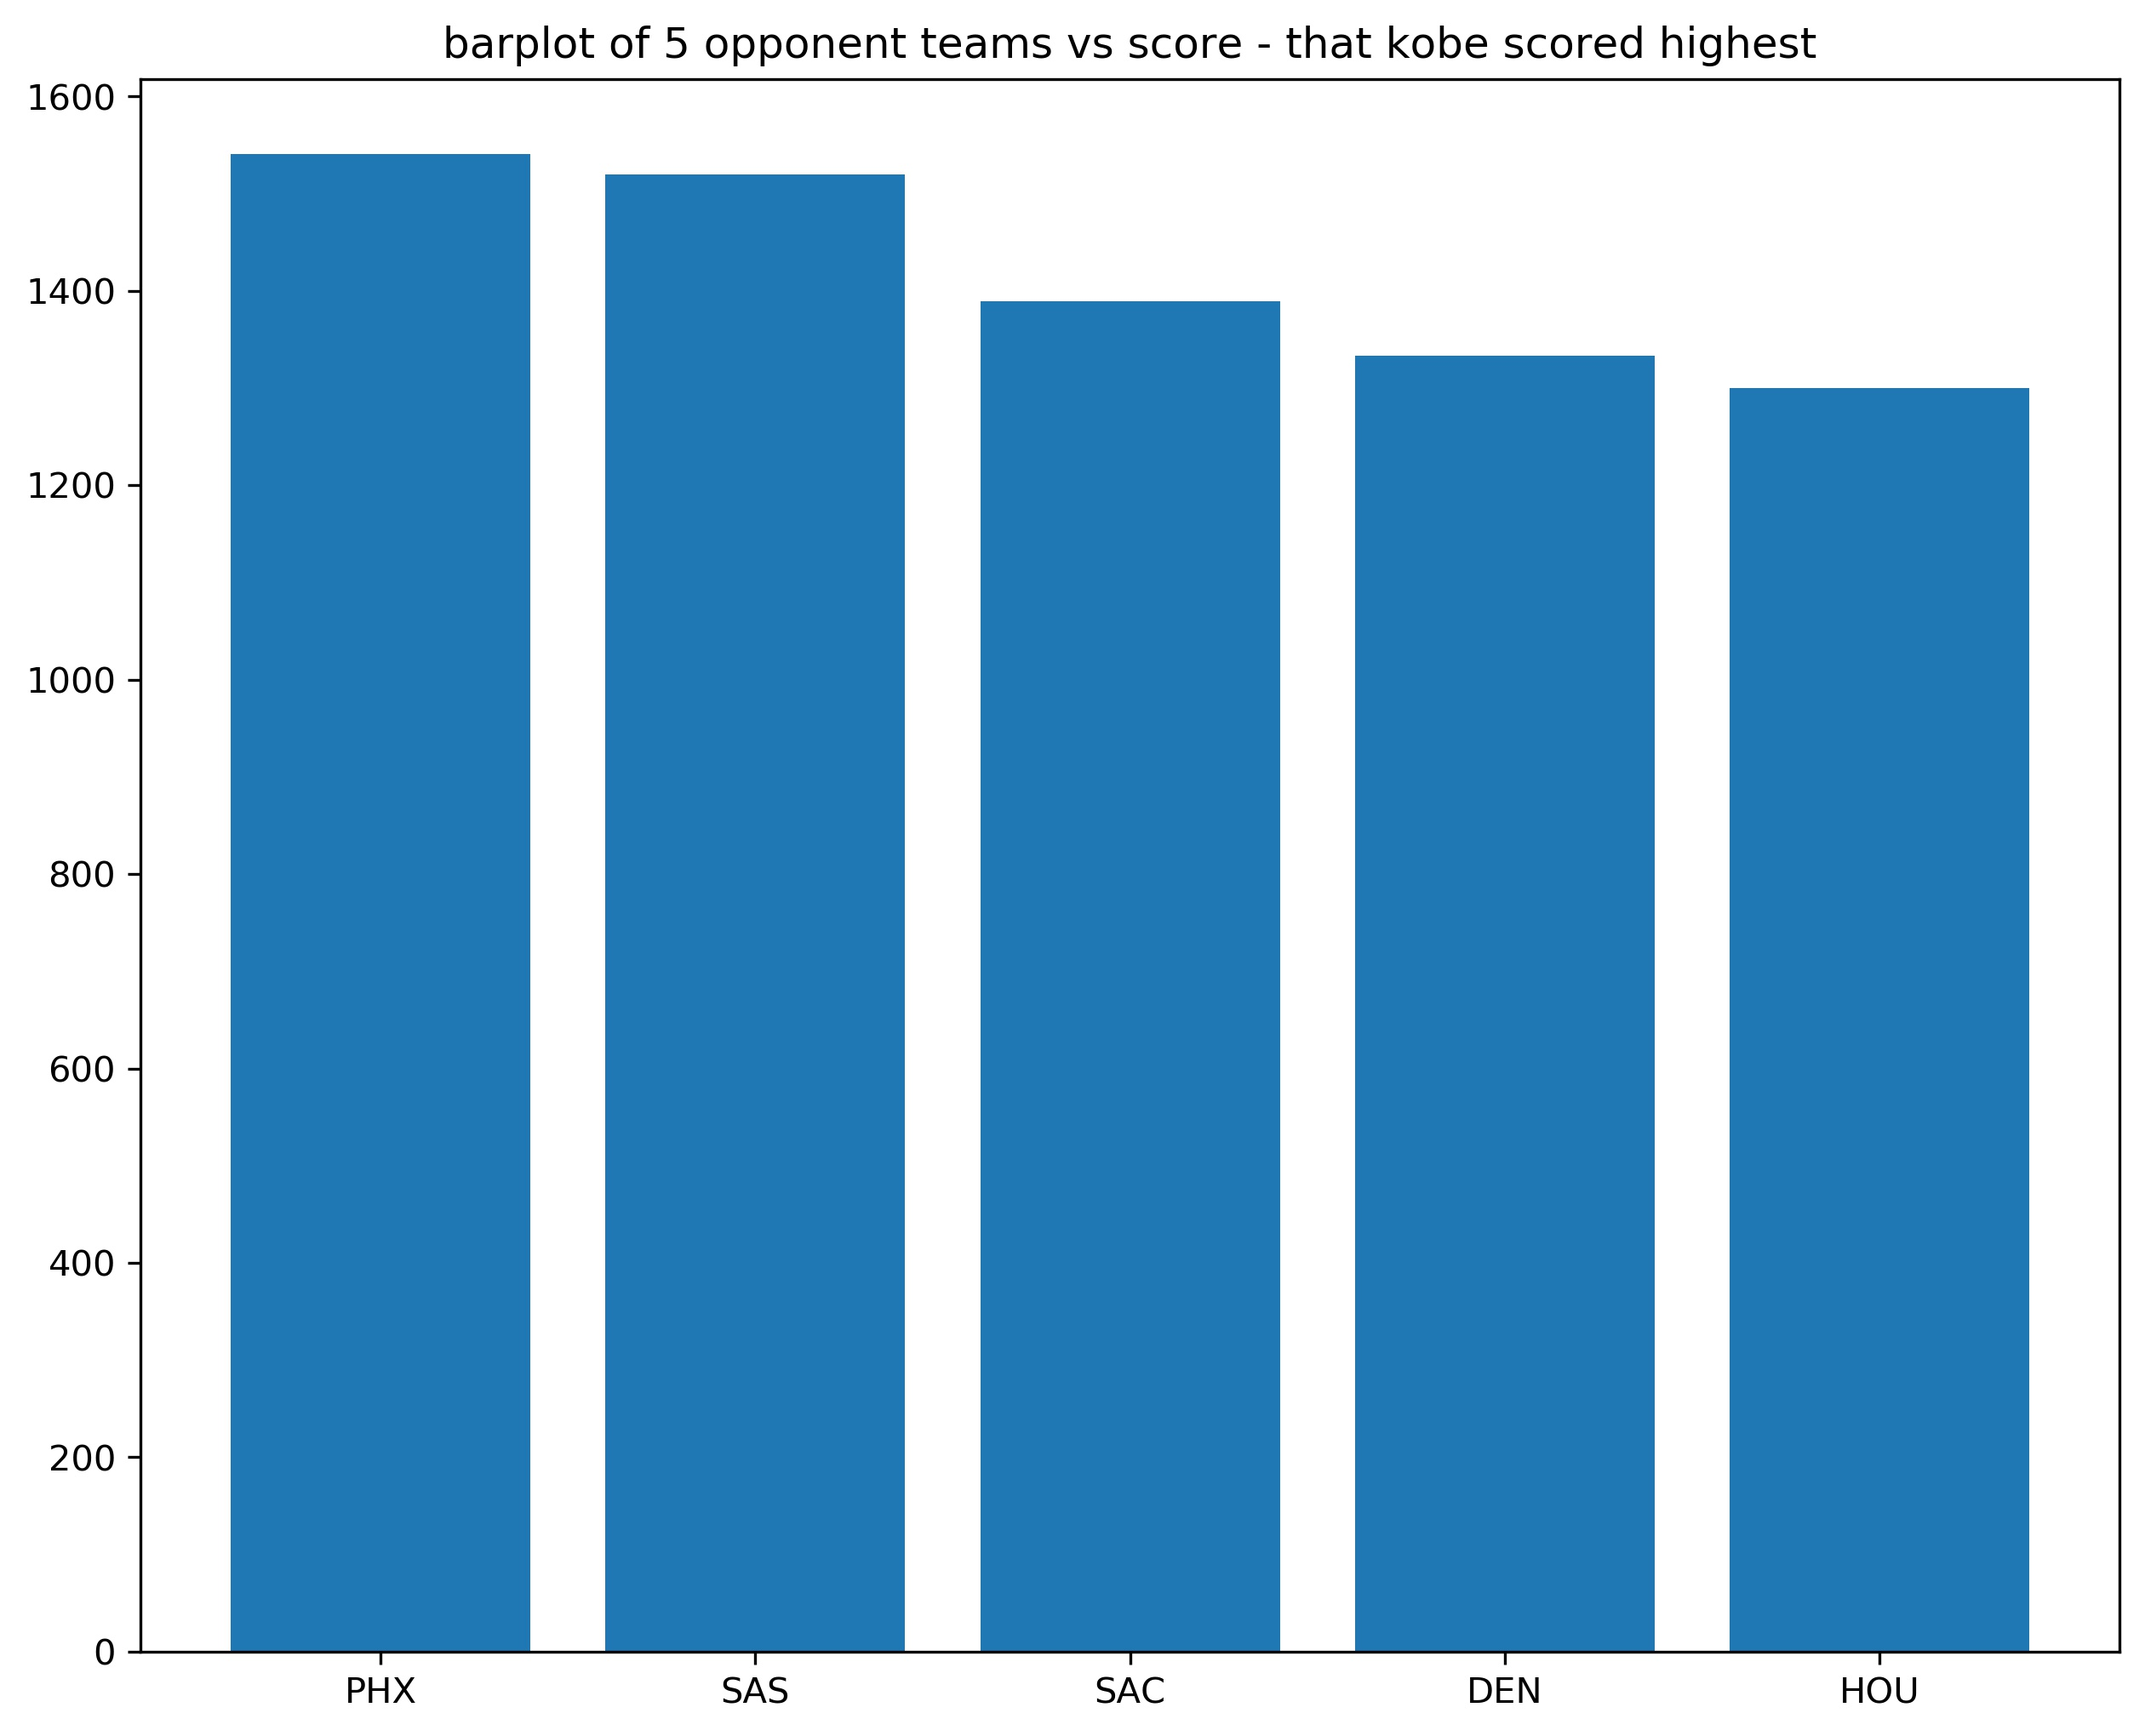
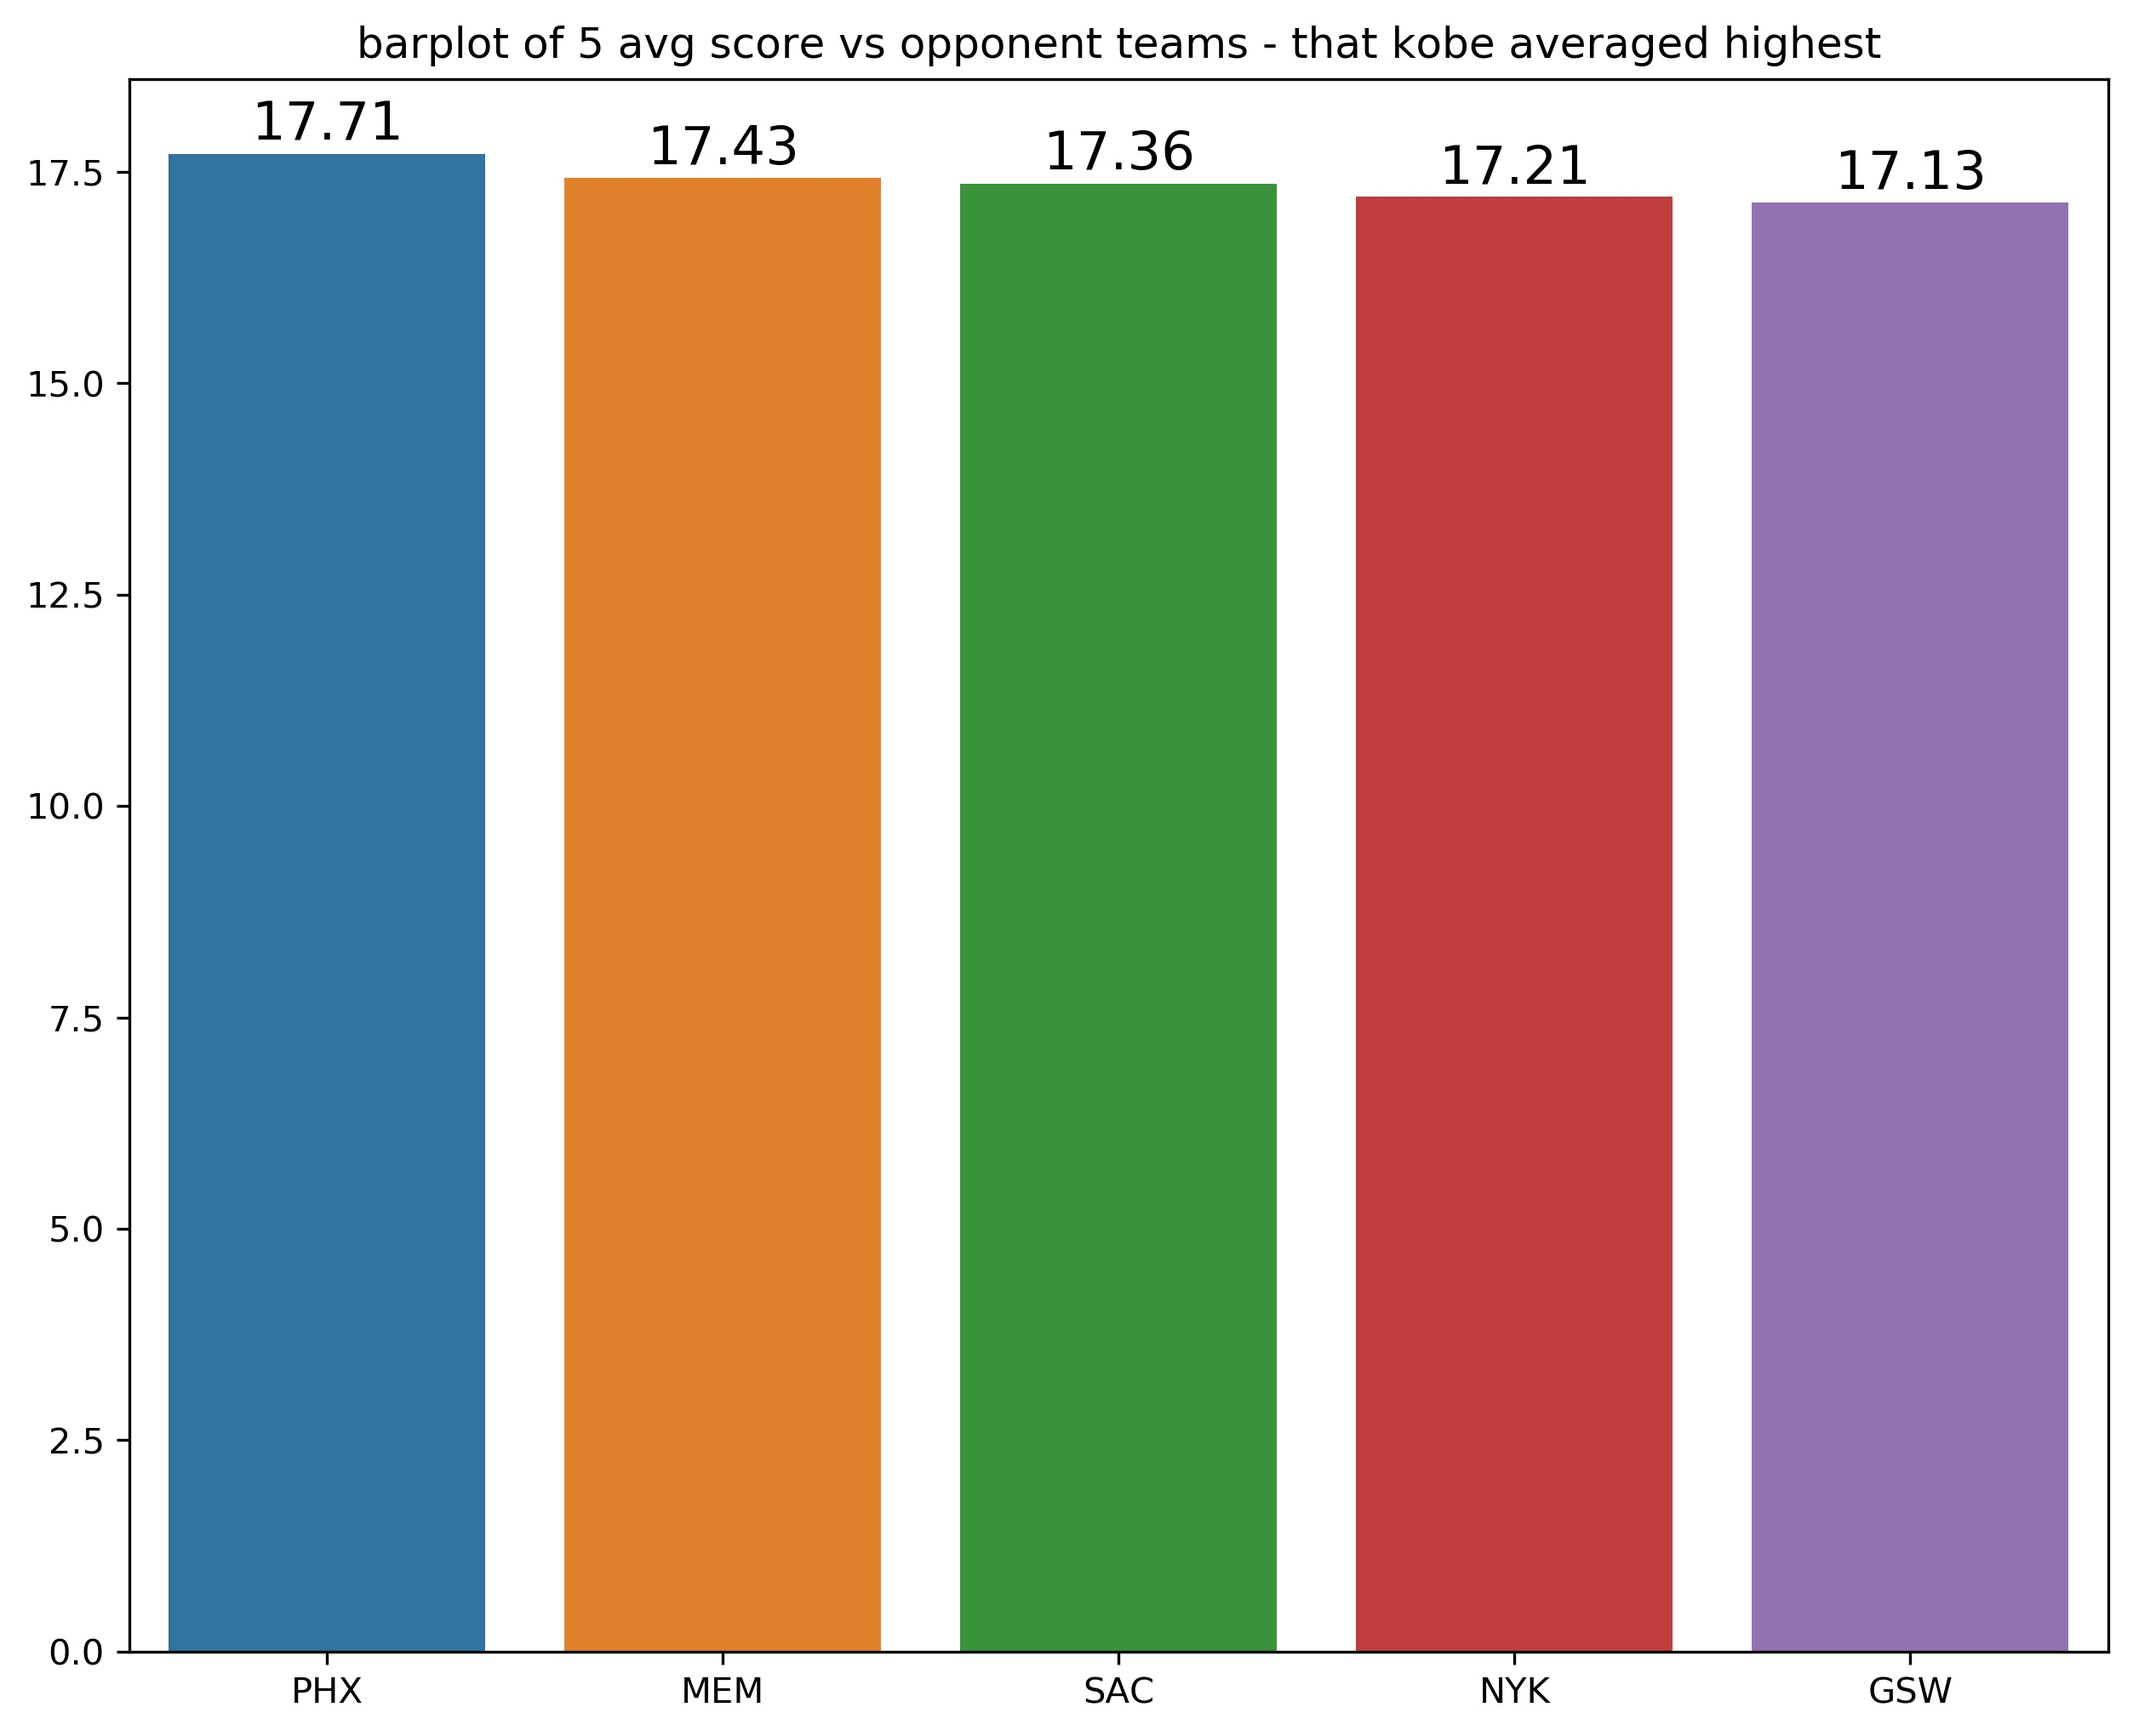
4

diff --git a/6202_project_pranay.py b/6202_project_pranay.py
@@ -389,7 +389,8 @@ opp_points={}
 
 for i in opponent_teams:
     points=data1.loc[data1['opponent']==i,'shot_made_flag'] * data1.loc[data1['opponent']==i,'shot_type']
-    opp_points[points.sum()]=i
+    matches=data1.loc[data1['opponent']==i,'game_id'].unique().size
+    opp_points[points.sum()/matches]=i
 
 opp_sum1=list(opp_points.keys())
 opp_sum1.sort(reverse=True)
@@ -397,18 +398,31 @@ opp_sum_teams1=[]
 for i in opp_sum1[:5]:
     opp_sum_teams1.append(opp_points[i])
 opp_sum_teams2=[]
-for i in opp_sum1[-1:-7:-1]:
+for i in opp_sum1[-1:-6:-1]:
     opp_sum_teams2.append(opp_points[i])
 
 plt.figure(figsize=(10,8))
-plt.bar(opp_sum_teams1,opp_sum1[:5])
-plt.title('barplot of 5 opponent teams vs score - that kobe scored highest')
+plots=sns.barplot(opp_sum_teams1,opp_sum1[:5])
+for bar in plots.patches:
+    plots.annotate(format(bar.get_height(), '.2f'),
+                   (bar.get_x() + bar.get_width() / 2,
+                    bar.get_height()), ha='center', va='center',
+                   size=15, xytext=(0, 8),
+                   textcoords='offset points')
+
+plt.title('barplot of 5 avg score vs opponent teams - that kobe averaged highest')
 plt.savefig('Graphs/6_1.jpeg', dpi=300, bbox_inches='tight')
 plt.show()
 
 plt.figure(figsize=(10,8))
-plt.bar(opp_sum_teams2,opp_sum1[-1:-7:-1])
-plt.title('barplot of 6 opponent teams vs score - that kobe scored least')
+plots=sns.barplot(opp_sum_teams2,opp_sum1[-1:-6:-1])
+for bar in plots.patches:
+    plots.annotate(format(bar.get_height(), '.2f'),
+                   (bar.get_x() + bar.get_width() / 2,
+                    bar.get_height()), ha='center', va='center',
+                   size=15, xytext=(0, 8),
+                   textcoords='offset points')
+plt.title('barplot of 5 avg score vs opponent teams - that kobe averaged least')
 plt.savefig('Graphs/6_2.jpeg', dpi=300, bbox_inches='tight')
 plt.show()
 
@@ -484,7 +498,6 @@ plt.xlabel('period/quarters')
 plt.ylabel('number of shots')
 plt.savefig('Graphs/8_2.jpeg', dpi=300, bbox_inches='tight')
 plt.show()
-
 
 
 
